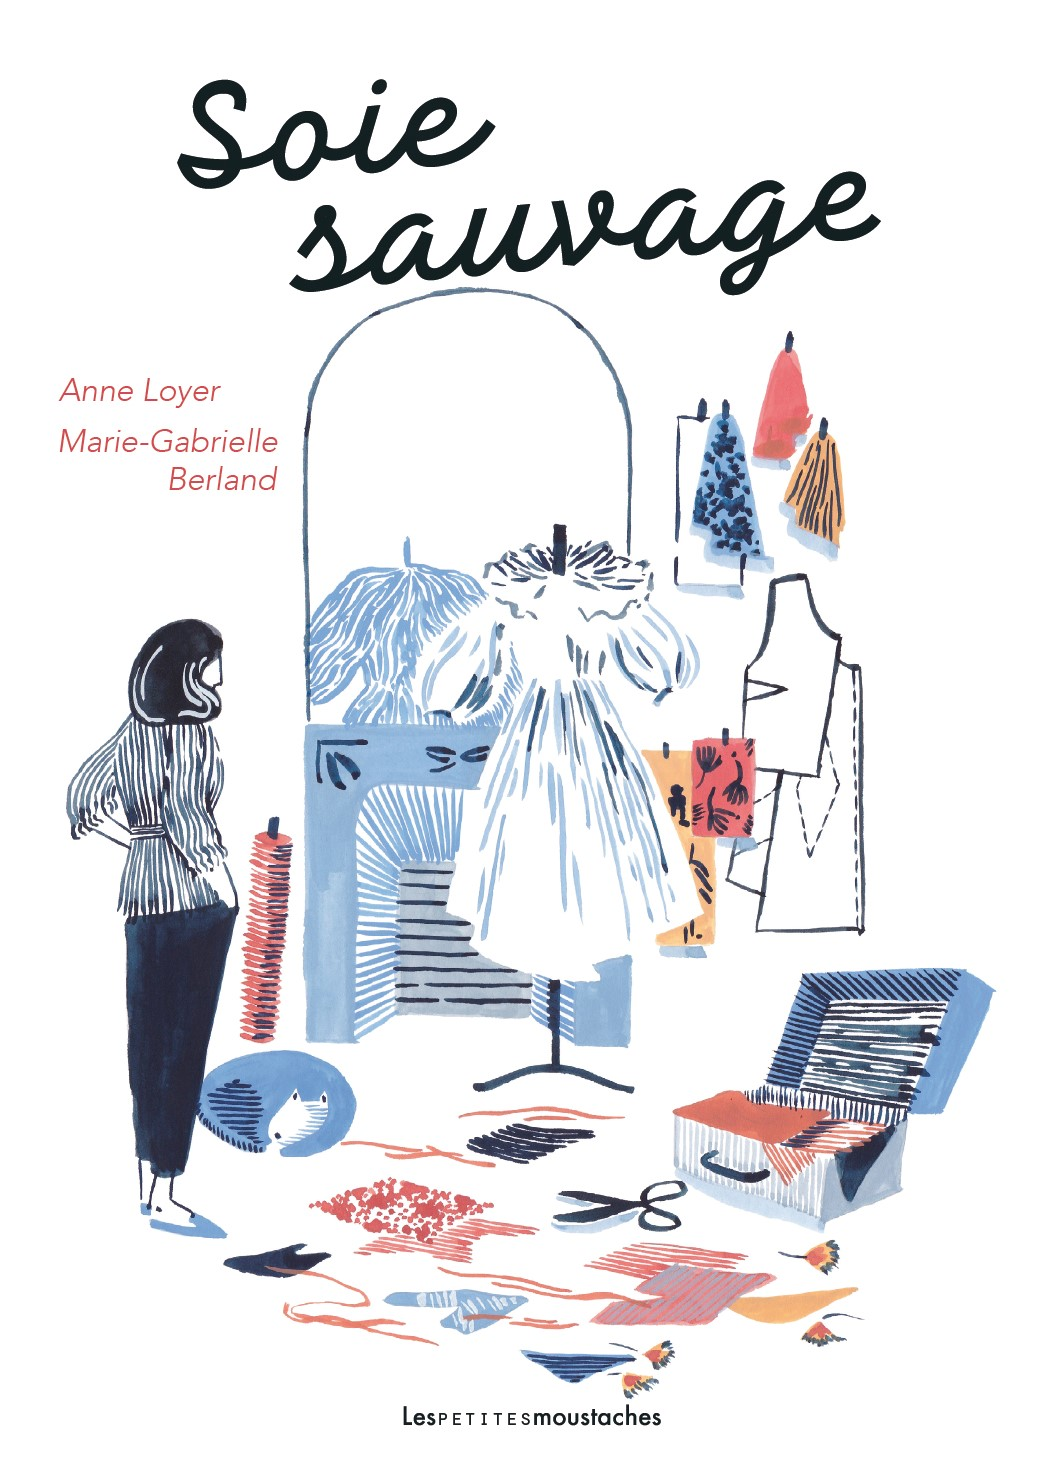
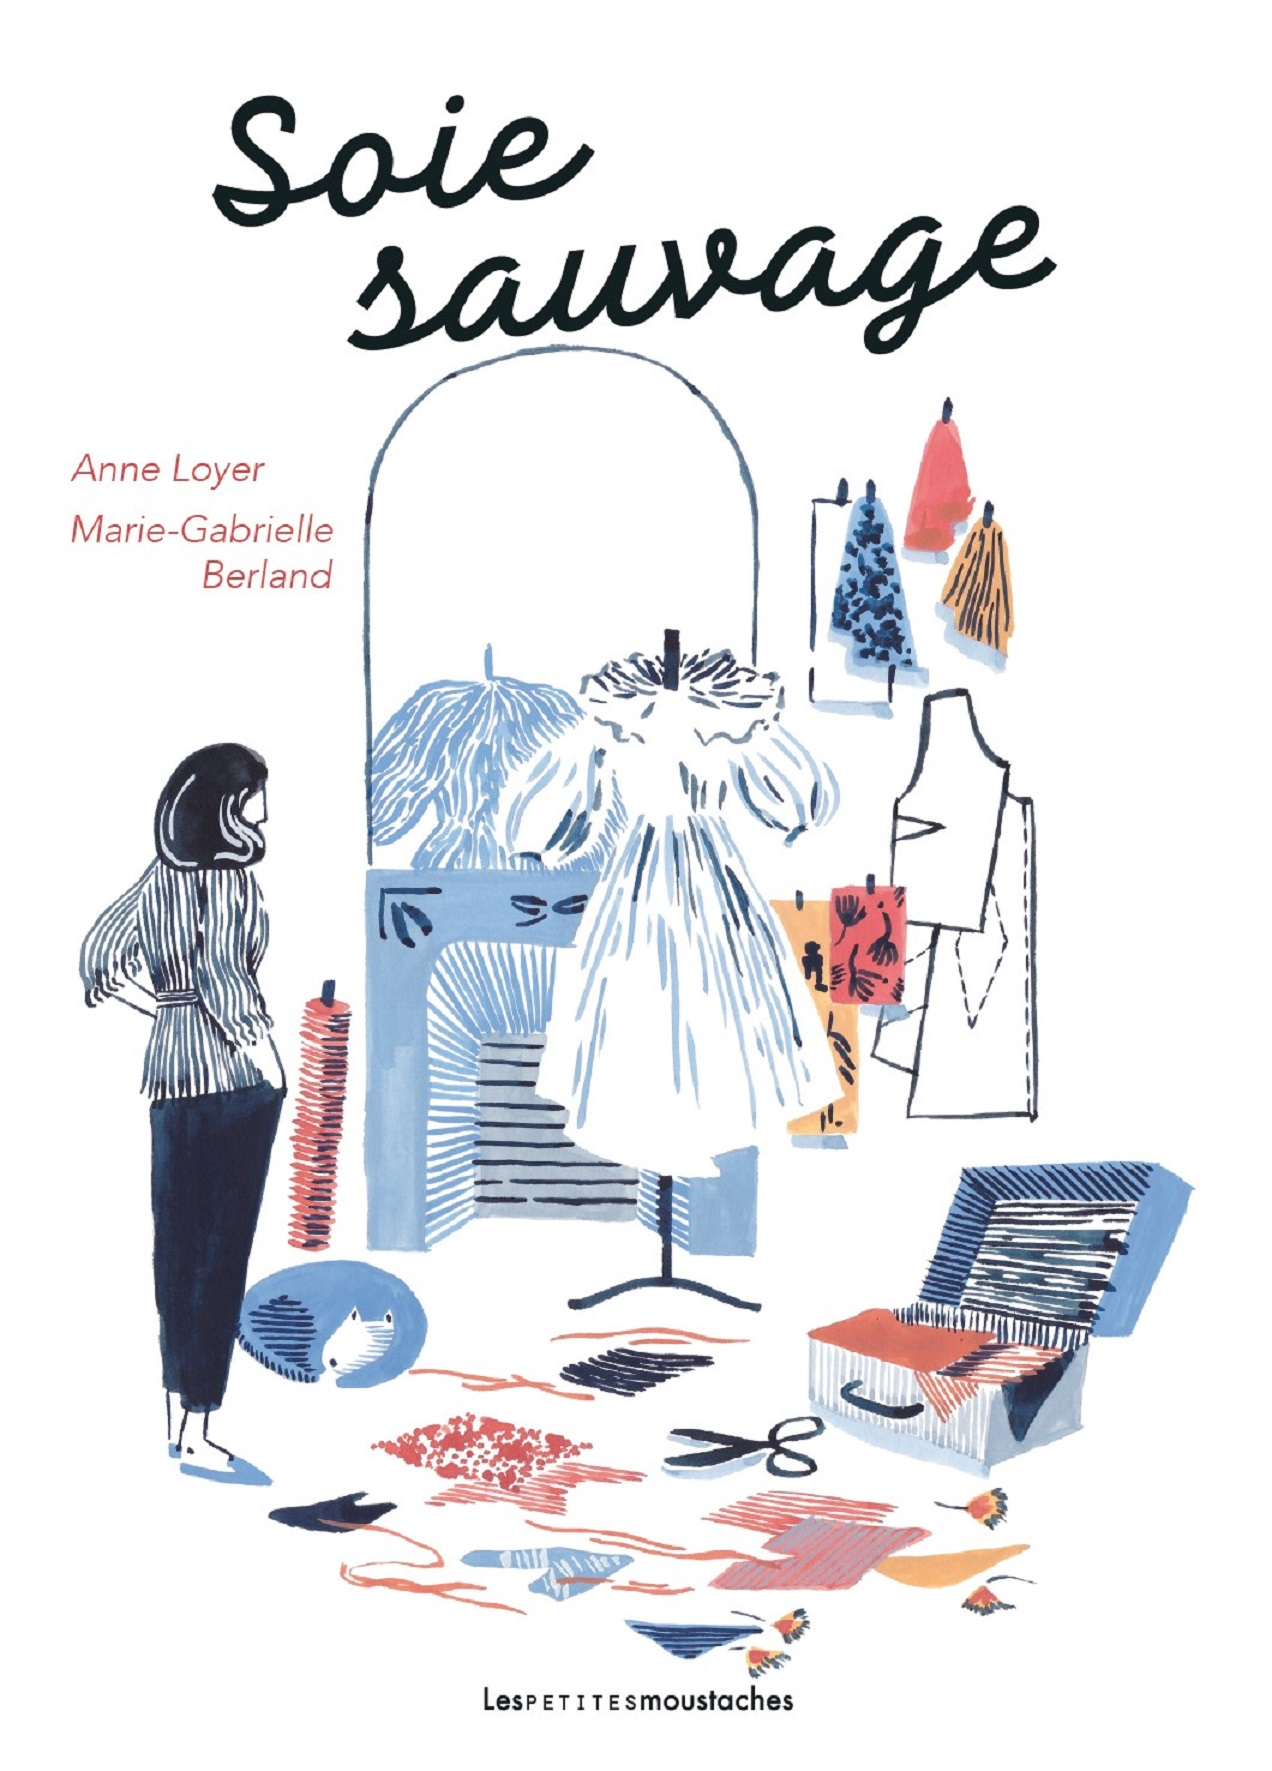
Update catalogue
Mise en place des articles

diff --git a/themes/roxo/layouts/portfolio/list.html b/themes/roxo/layouts/portfolio/list.html
@@ -23,8 +23,8 @@
 <section class="site-project" id="project">
   <div class="container">
     <div class="row">
-      {{ range (.Paginator 4).Pages }}
-      <div class="col-lg-6 col-md-10 mx-auto">
+      {{ range (.Paginator 12).Pages }}
+      <div class="col-lg-3 col-md-6 mx-auto">
         <div class="site-project-item">
           <div class="site-project-item-thumb">
             <img src="{{ .Params.Image | absURL }}" alt="project-thumb">

diff --git a/content/portfolio/lpm/chocolat.md b/content/portfolio/lpm/chocolat.md
@@ -1,0 +1,35 @@
+---
+title: "I AM CHOCOLATE!"
+date: 2016-01-15
+type: portfolio
+image: "images/projects/chocolat.jpg"
+subtitle: ["NOVEL 9+"]
+maison: "lpm"
+project_images: ["images/projects/chocolat.jpg"]
+---
+
+Written by **Bénédicte Rivière**.   
+111 pages, 13*20 cm      
+**Public aimed**: 9+   
+**Genre**: Novel      
+**Keywords**: CIRCUS | CLOWN | FRIENDSHIP | IMMIGRATION | THE NAUGHTY NINETIES      
+
+
+My name is Rafael and I was born in Cuba. I am the son of runaway slaves. When I was a child, I lived in Havana, at Old Jaba’s house.
+But one day, she sold me to a Portuguese merchant. To reassure me, she told me that I would be free once in Europe, that slavery didn’t exist there. And here I am on a boat, sailing towards the Old Continent !
+It’s on this ship’s deck that I found Habana, my seagull. It was injured, so I healed it.
+Quickly, she shared all my adventures. Because my life has been incredible ! I, the slaves’ son, the child everybody used to point at, I was going to be the first black artist to become famous and be applauded by the Paris smart set…      
+
+
+*From Cuba to Paris, including Bilbao, discover the heart-rending destiny of Rafael, known as Chocolat, the very first black clown who be successful in Europe. If it’s in Paris that Chocolat embraced an artistic career, it’s in Spain, his welcome land, that everything began. Nicknamed on his arrival on the continent “El Rubio”, the young boy reveals his acting and dancing skills for the first time in Bilbao.*
+
+
+*The story has been adapted in 2016, in the eponym movie* Monsieur Chocolat *where Omar Sy plays the famous artist*.    
+
+
+
+
+
+If you would like to receive further information, please [contact me](mailto:melanie.guillaumin.edition@gmail.com)
+
+

diff --git a/content/portfolio/lpm/bulle-ballu.md b/content/portfolio/lpm/bulle-ballu.md
@@ -1,0 +1,35 @@
+---
+title: "THE SILVER LEOPARD"
+date: 2014-06-25
+type: portfolio
+image: "images/projects/lldt-leopard.jpg"
+subtitle: ["NOVEL 9+"]
+maison: "lpm"
+project_images: ["images/projects/lldt-leopard.jpg"]
+---
+
+Written by **Anne Samuel**.   
+122 pages, 13*20 cm   
+Book 1      
+**Public aimed**: 9+   
+**Genre**: Novel      
+**Keywords**: ADVENTURE | HISTORY | ART HISTORY | MIDDLE AGE | TIME TRAVEL               
+
+
+Mona doesn’t know where she comes from and lives with her foster father. 
+On her 13th birthday, she uncovers a painting in her family’s library and finds herself carried away in Middle Age. 
+She will be taken care of by Master Isaac and his Apprentice Colin and introduced to the cornerstones of artistic expression.
+But everything she builds will be challenged by her encounter with Alienor of Aquitaine, on her way to the Second Crusades. In this turbulent and hostile environment, Mona will have to find out how to return to her previous life.   
+
+
+
+*Her incredible odissey journey will give us a glimpse on our historical, cultural and religious history.*
+*This is the first book of a series of 5 novels, which chronicles 13th year old Mona’s quest of origins and revisits the key moments of our History and artistic creation.*   
+
+
+
+
+
+If you would like to receive further information, please [contact me](mailto:melanie.guillaumin.edition@gmail.com)
+
+

diff --git a/content/portfolio/lpm/leopard.md b/content/portfolio/lpm/leopard.md
@@ -1,0 +1,30 @@
+---
+title: "BULLE BALLU"
+date: 2018-06-22
+type: portfolio
+image: "images/projects/bulle-ballu.jpg"
+subtitle: ["FREE VERSE NOVEL 10+"]
+maison: "lpm"
+project_images: ["images/projects/bulle-ballu.jpg"]
+---
+
+Written by **Pascale Moisset**.   
+200 pages, 13*23 cm      
+**Public aimed**: 10+   
+**Genre**: Free verse novel      
+**Keywords**: FRIENDSHIP | RECOMPOSED FAMILY | SOLIDARITY | COMMUNITY LIFE | SOCIAL MEDIAS           
+
+
+A move is not always bad news. 
+For Zoé, a young teenager of thirteen and a quarter, it is the beginning of a great adventure. 
+After all, three families who decide to live together around the same garden always make for more laughter and shared moments. But suddenly, this dream threatens to come to an end. One of the families is about to implode. The parents announce their separation, they have to move out, causing turmoil in the Bubble. 
+More determined than ever to stay together, Zoé and her friends will redouble their efforts and inventiveness to save their little paradise. In a connected world, a call for help on social networks will be the best solution to gather thousands of people around the world around the same injustice: divorce and alternating custody.
+  
+
+
+
+
+
+If you would like to receive further information, please [contact me](mailto:melanie.guillaumin.edition@gmail.com)
+
+

diff --git a/content/portfolio/lpm/pourquoi-jai-mange-du-lion.md b/content/portfolio/lpm/pourquoi-jai-mange-du-lion.md
@@ -1,0 +1,31 @@
+---
+title: "WILD SILK"
+date: 2019-11-07
+type: portfolio
+image: "images/projects/soie-sauvage.jpg"
+subtitle: ["PICTURE BOOK 6+"]
+maison: "lpm"
+project_images: ["images/projects/soie-sauvage.jpg"]
+---
+
+Written by **Anne Loyer**, illustrated by **Marie-Gabrielle Berland**.   
+48 pages, 23*30 cm   
+**Public aimed**: 6+   
+**Genre**: Picture book      
+**Keywords**: SEAMSTRESS | FASHION | DREAM | SEWING COMPETITION
+
+
+Louise Galon is a young creator who has just settled down in Paris in order to present her work to a most fashionable stylist. Yet he does not show any enthusiasm for the dress Louise has worked on so hard. Disappointed, Louise is ready to give up on her dream.
+Thankfully, since she has arrived, a young man has been watching her closely, seduced by the woman’s artwork. He picks up the dress that she got rid of without her knowing and makes her participate in a talent contest. Louise is invited the day of the fashion show and cannot believe her eyes : she discovers a model running the catwalk with her dress on…   
+
+
+
+*The first picture book of Les petites moustaches.*      
+
+
+
+
+
+If you would like to receive further information, please [contact me](mailto:melanie.guillaumin.edition@gmail.com)
+
+

diff --git a/content/portfolio/lpm/soie-sauvage.md b/content/portfolio/lpm/soie-sauvage.md
@@ -1,0 +1,31 @@
+---
+title: "ADRIENNE BOLLAND'S CRAZY ESCAPE"
+date: 2019-03-08
+type: portfolio
+image: "images/projects/h-adrienne.jpg"
+subtitle: ["NOVEL 11+"]
+maison: "lpm"
+project_images: ["images/projects/h-adrienne.jpg"]
+---
+
+Written by **Sophie Guillou**.   
+164 pages, 13*21 cm   
+**Public aimed**: 11+   
+**Genre**: Novel      
+**Keywords**: AVIATRIX | HEROIN | ADRIENNE BOLLAND | ANDES CORDILLERA
+
+
+**October 1920**.   
+With her boyish cut, Adrienne is a young woman who likes to party with her friends.   
+But she’s nearly 24 years old now, and she wonders what she’s going to do with her life.   
+Getting married, no way! Working in an office either. All that she wants is to be as free as a bird.   
+
+**April 1921**. Outbreak of joy in the streets of Santiago de Chile and Buenos Aires.   
+While no one believed this feat even possible, the French aviatrix Adrienne Bolland, unknown until then, just passed the Andes mountain range aboard her plane, where many experienced pilots have lost their lives. She then becomes part of history.   
+
+
+
+
+If you would like to receive further information, please [contact me](mailto:melanie.guillaumin.edition@gmail.com)
+
+

diff --git a/content/portfolio/lpm/sonia-rykiel.md b/content/portfolio/lpm/sonia-rykiel.md
@@ -1,0 +1,30 @@
+---
+title: "CRISTÓBAL BALENCIAGA"
+date: 2017-11-03
+type: portfolio
+image: "images/projects/mode-balenciaga.jpg"
+subtitle: ["ILLUSTRATED DOCU-FICTION 10+"]
+maison: "lpm"
+project_images: ["images/projects/mode-balenciaga.jpg"]
+---
+
+Written by **Sophie Guillou**, illustrated by **Alice Dufay**.   
+136 pages   
+**Public aimed**: 10+ | Adults   
+**Genres**: Fiction | Q&A Biography | Illustrated primer      
+**Keywords**: HIGH-FASHION DESIGNER | CRISTÓBAL BALENCIAGA | SPAIN          
+
+
+In July 1906, everything is quiet in the small Spanish village of Getaria. Young Cristóbal is bored.
+But thanks to the Marquise of Casa Torres, he will experience weeks that will change his life.
+
+
+*This novel traces the childhood of the "master of fashion designers", Cristóbal Balenciaga, who dominated fashion in the 1950s and 1960s.*    
+*It is followed by a Q&A biography and an illustrated primer, to reenact his elegant, uncluttered style in pictures.*
+
+
+
+
+
+If you would like to receive further information, please [contact me](mailto:melanie.guillaumin.edition@gmail.com)
+

diff --git a/content/portfolio/lpm/june.md b/content/portfolio/lpm/june.md
@@ -1,0 +1,34 @@
+---
+title: "THE DAY OF JUNE"
+date: 2017-03-08
+type: portfolio
+image: "images/projects/h-june.jpg"
+subtitle: ["NOVEL 11+"]
+maison: "lpm"
+project_images: ["images/projects/h-june.jpg"]
+---
+
+Written by **Anne Loyer**.   
+141 pages, 13*21 cm      
+**Public aimed**: 11+   
+**Genre**: Novel      
+**Keywords**: WAR REPORTER | HEROIN | WW2 | D-DAY | ROBERT CAPA   
+
+
+**June 1944**.   
+Jude is about to disembark with the Rangers at Pointe du Hoc. 
+In the barge that is taking on water, in the heart of the night and the cold, it is anxiety that prevails. 
+Clutching his camera, the young reporter wants to believe in his mission: to bring back pictures to testify to the extraordinary courage of those around him.
+
+**November 1940**. 
+For her fourteenth birthday, June receives a Leica from her grandfather. While the Blitz is raging, this gift, like her meeting with the war photographer Robert Capa, will change her destiny.
+
+  
+
+
+
+
+
+If you would like to receive further information, please [contact me](mailto:melanie.guillaumin.edition@gmail.com)
+
+

diff --git a/content/portfolio/lpm/rose-bertin.md b/content/portfolio/lpm/rose-bertin.md
@@ -1,0 +1,29 @@
+---
+title: "ROSE BERTIN"
+date: 2016-06-15
+type: portfolio
+image: "images/projects/mode-bertin.jpg"
+subtitle: ["ILLUSTRATED DOCU-FICTION 10+"]
+maison: "lpm"
+project_images: ["images/projects/mode-bertin.jpg"]
+---
+
+Written by **Sophie Guillou**, illustrated by **Alice Dufay**.   
+152 pages   
+**Public aimed**: 10+ | Adults   
+**Genres**: Fiction | Q&A Biography | Illustrated primer      
+**Keywords**: ROYAL SEAMSTRESS | ROSE BERTIN | MARIE-ANTOINETTE | 18th CENTURY       
+
+
+Thanks to her talent, Rose has established herself as the fashion dealer that everyone at the court of Versailles wants.   But a seductive stranger throws her life into turmoil...
+
+
+*This novel evokes the flamboyant figure of Miss Bertin, Marie-Antoinette's seamstress, who revolutionized fashion at the end of the 18th century.*    
+*It is followed by a Q&A biography and an illustrated primer, to reenact the style of this period in pictures.*
+
+
+
+
+
+If you would like to receive further information, please [contact me](mailto:melanie.guillaumin.edition@gmail.com)
+

diff --git a/content/portfolio/lpm/cristobal-balenciaga.md b/content/portfolio/lpm/cristobal-balenciaga.md
@@ -1,0 +1,30 @@
+---
+title: "SONIA RYKIEL"
+date: 2017-06-15
+type: portfolio
+image: "images/projects/mode-rykiel.jpg"
+subtitle: ["ILLUSTRATED DOCU-FICTION 10+"]
+maison: "lpm"
+project_images: ["images/projects/mode-rykiel.jpg"]
+---
+
+Written by **Sophie Guillou**, illustrated by **Alice Dufay**.   
+144 pages   
+**Public aimed**: 10+ | Adults   
+**Genres**: Fiction | Q&A Biography | Illustrated primer      
+**Keywords**: HIGH-FASHION DESIGNER | SONIA RYKIEL | PARIS          
+
+
+In the summer of 1942, Sonia is passionately enjoying the countryside. 
+But it is not easy to be twelve years old when you have red hair, are undisciplined and there is a war on...
+
+
+*This novel evokes the childhood of Sonia Rykiel, a whimsical and free woman who invented the concept of "demode".*        
+*It is followed by a Q&A biography and an illustrated primer, to tell the story of over forty years of creation in images.*
+
+
+
+
+
+If you would like to receive further information, please [contact me](mailto:melanie.guillaumin.edition@gmail.com)
+

diff --git a/content/portfolio/lpm/jeanne-lanvin.md b/content/portfolio/lpm/jeanne-lanvin.md
@@ -1,0 +1,31 @@
+---
+title: "JEANNE LANVIN"
+date: 2015-11-10
+type: portfolio
+image: "images/projects/mode-lanvin.jpg"
+subtitle: ["ILLUSTRATED DOCU-FICTION 10+"]
+maison: "lpm"
+project_images: ["images/projects/mode-lanvin.jpg"]
+---
+
+Written by **Sophie Guillou**, illustrated by **Alice Dufay**.   
+126 pages   
+**Public aimed**: 10+ | Adults   
+**Genres**: Fiction | Q&A Biography | Illustrated primer      
+**Keywords**: HIGH-FASHION DESIGNER | JEANNE LANVIN | PARIS      
+
+
+At the age of ten, Marguerite has everything to be happy.   
+But she is tired of her mother dressing her like a doll. 
+One day, she rebels...
+
+
+*This novel brings to life the discreet figure of Jeanne Lanvin, who created sumptuous clothes out of love for her daughter.*   
+*It is followed by a Q&A biography and an illustrated primer, to evoke the refinement of the Lanvin style in pictures.*
+
+
+
+
+
+If you would like to receive further information, please [contact me](mailto:melanie.guillaumin.edition@gmail.com)
+

diff --git a/content/portfolio/lpm/karl-lagerfeld.md b/content/portfolio/lpm/karl-lagerfeld.md
@@ -20,7 +20,7 @@ Cultivating his differences with his mother's blessing, he is nonetheless caught
 
 
 *This fiction evokes the childhood of Karl Lagerfeld, a tireless designer who ruled the fashion world for over sixty years*.
-*It is followed by a biography and an illustrated primer, to tell the story of the inventiveness of an extraordinary designer*.
+*It is followed by a Q&A biography and an illustrated primer, to tell the story of the inventiveness of an extraordinary designer*.
 
 
 
